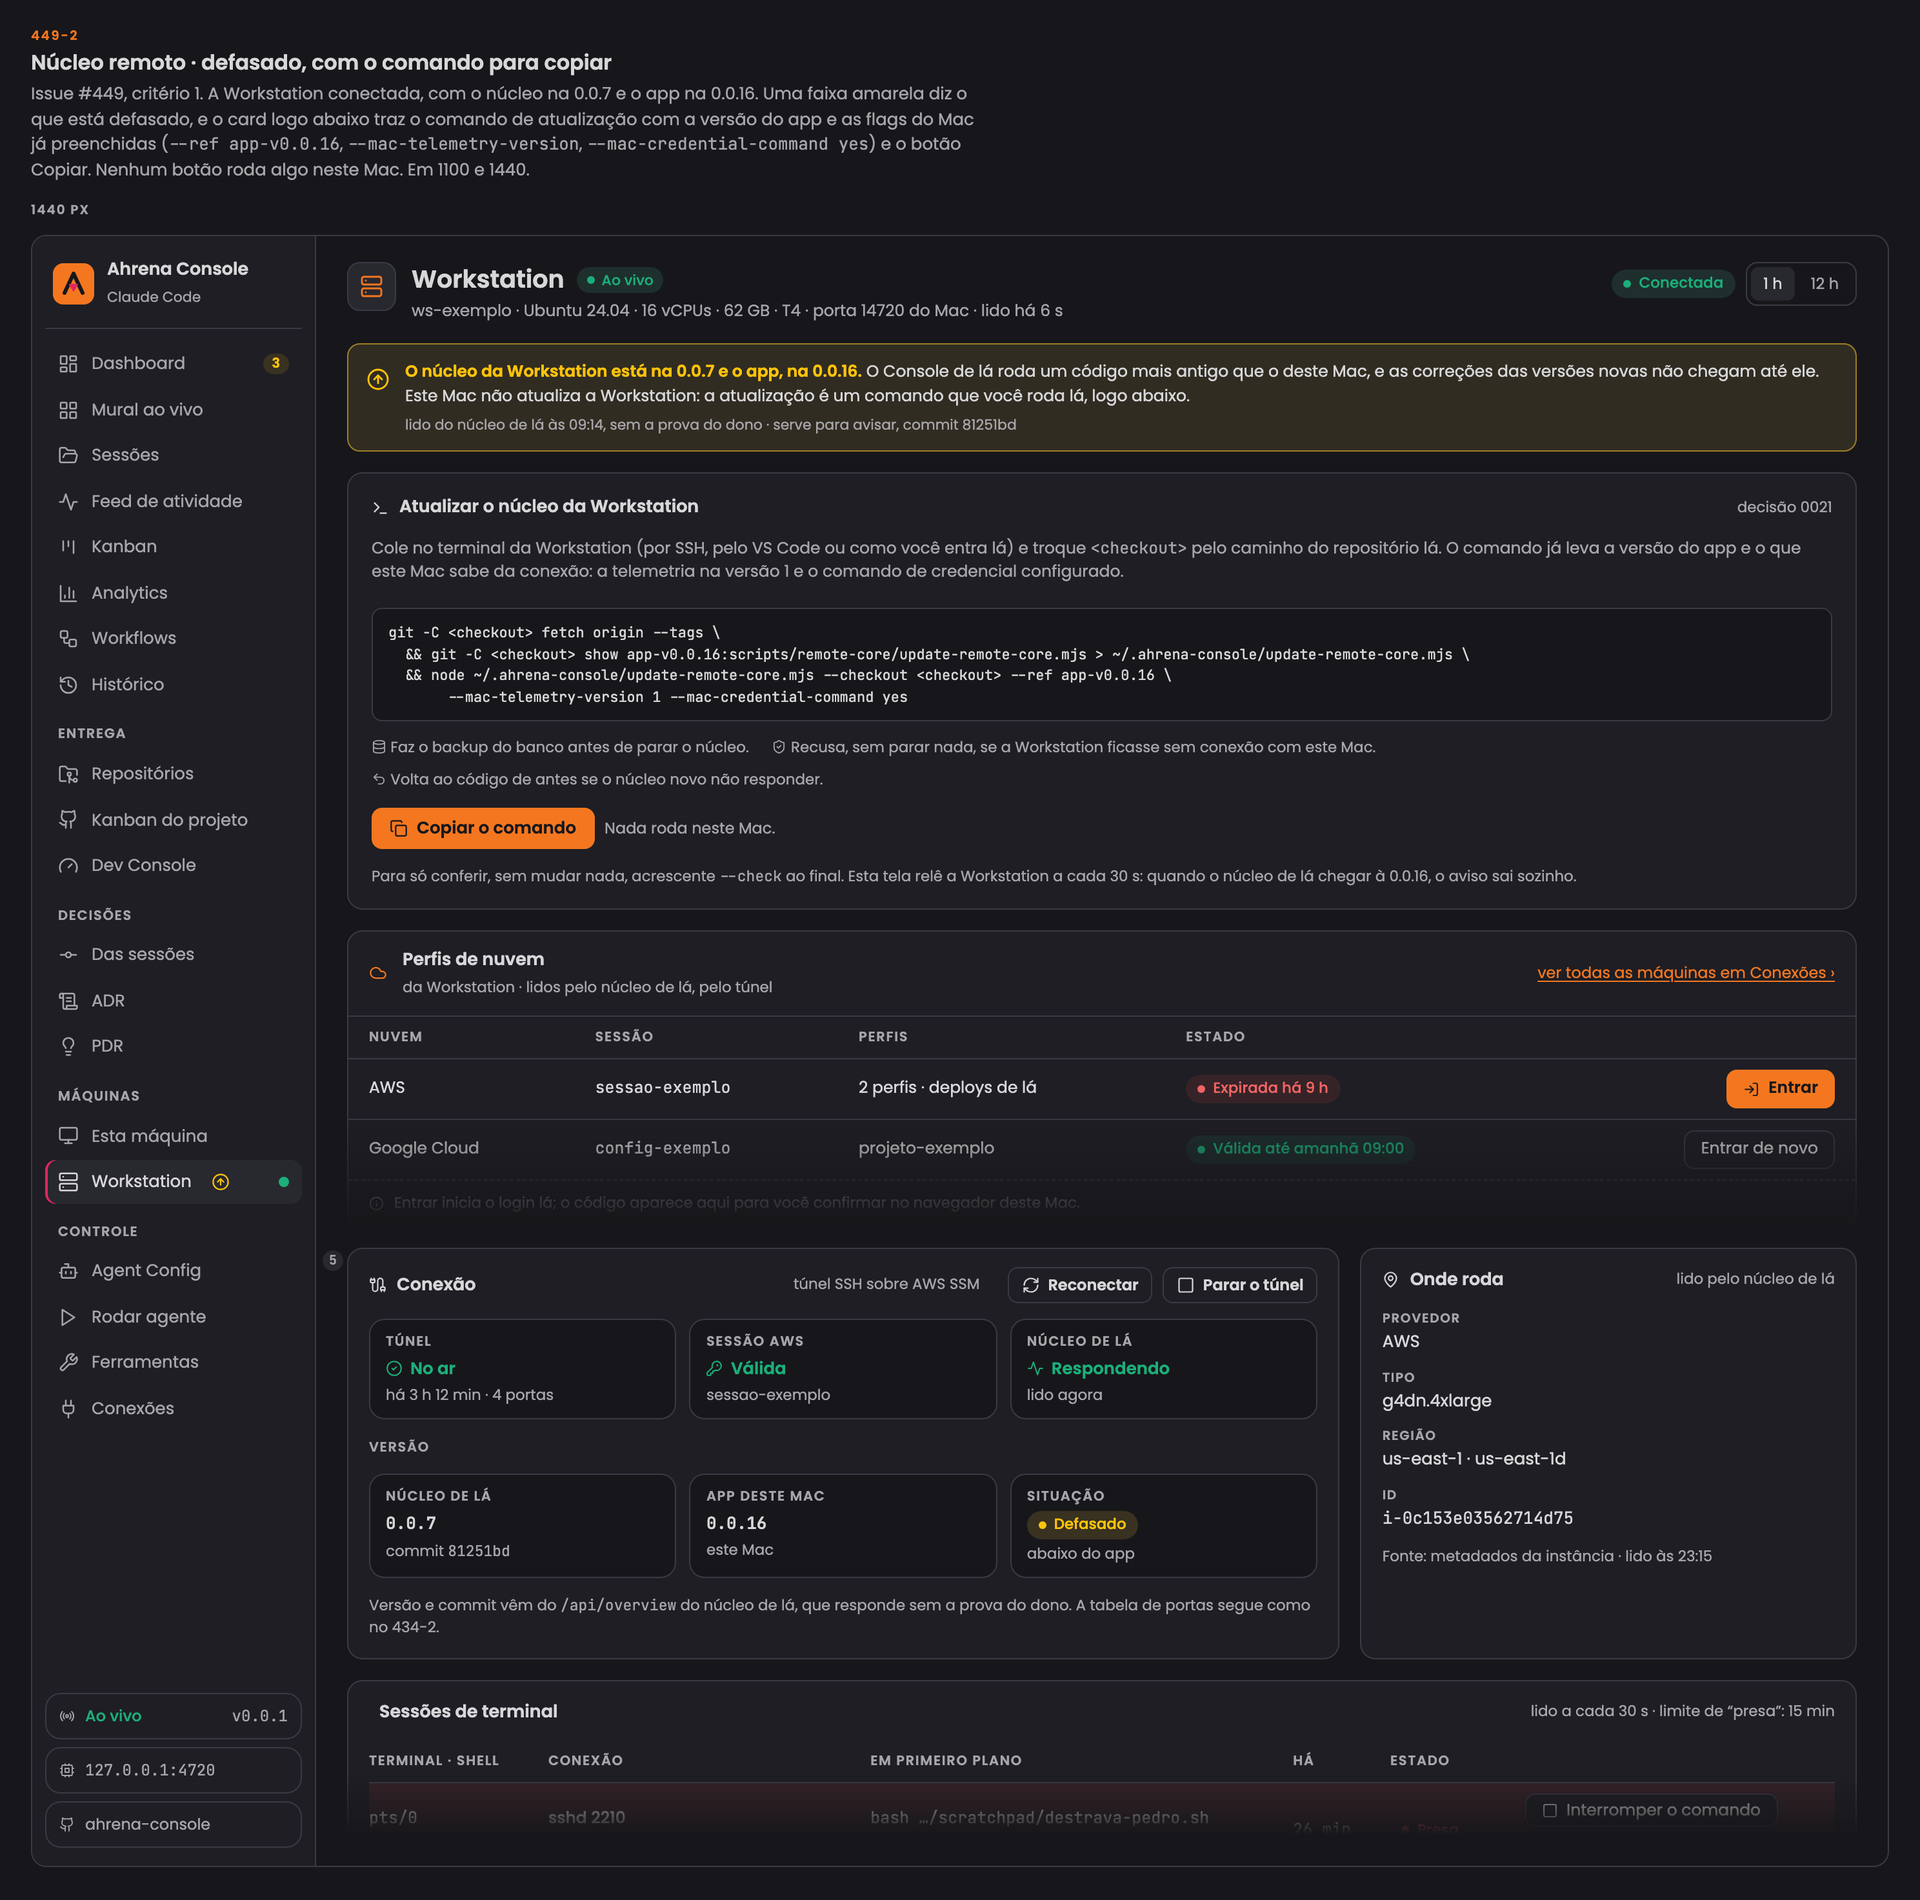
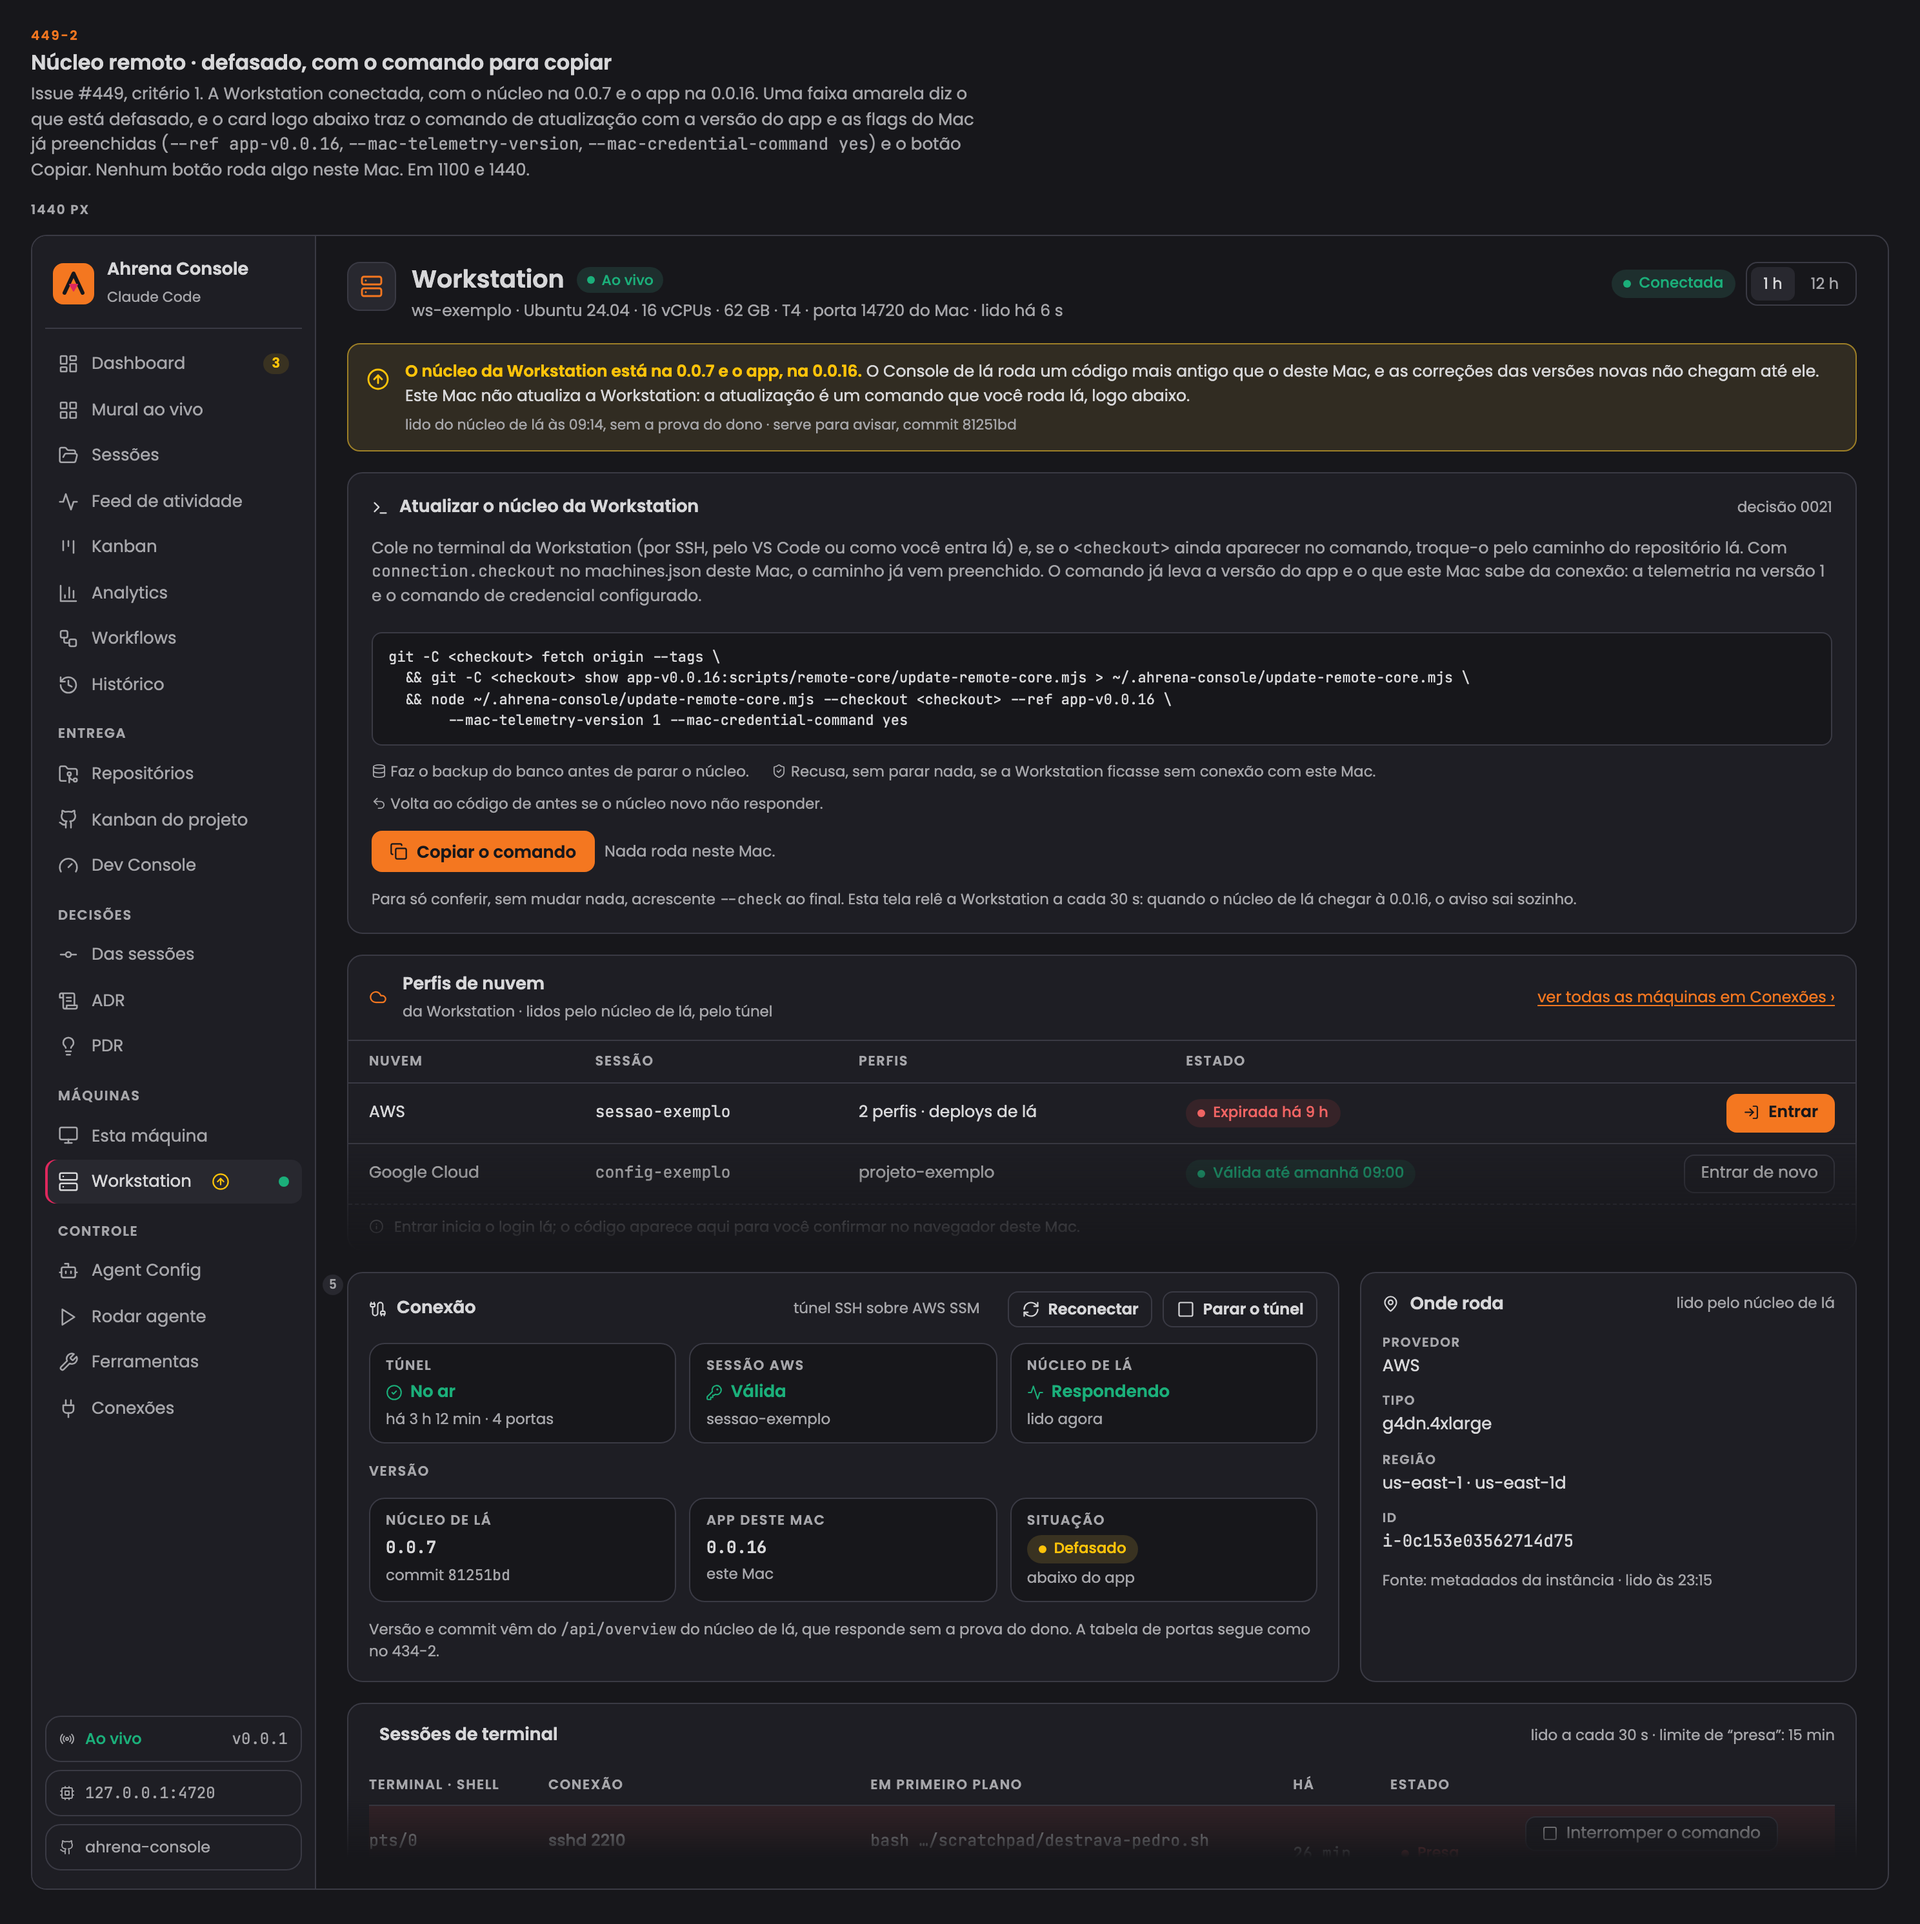
docs(wireframes): remote core version and update states (issue 449)
Wireframes 449-1 to 449-5 for decision 0021: the core version on the Workstation
card, the outdated warning with the copyable update command, the variant without
the credential command, outdated in owner-auth-required, and the sidebar marker.

diff --git a/docs/wireframes/index.html b/docs/wireframes/index.html
@@ -5563,14 +5563,14 @@ const cvCommand = (cred, ref = `app-v${CV_APP}`) => `git -C &lt;checkout&gt; fet
        --mac-telemetry-version 1 --mac-credential-command ${cred}`
 const cvCopy = (primary, copied) => `<div class="cv-copy">${bt(copied ? 'Copiado' : 'Copiar o comando', { v: primary ? 'filled' : 'outline', icon: copied ? 'check' : 'copy', state: copied ? 'done' : '' })}<span class="c-muted" style="font-size:12px">${copied ? 'Cole no terminal da Workstation.' : 'Nada roda neste Mac.'}</span></div>`
 const cvUpdateCard = (cred, o = {}) => `<div class="cartao tm-rc-setup"><h5>${ic('terminal')}${o.step ? '2 · ' : ''}Atualizar o núcleo da Workstation<span class="c-muted" style="margin-left:auto;font-weight:400;font-size:11.5px">decisão 0021</span></h5>
-  <span class="c-muted" style="font-size:12.5px">Cole no terminal da Workstation (por SSH, pelo VS Code ou como você entra lá) e troque <code>&lt;checkout&gt;</code> pelo caminho do repositório lá. O comando já leva a versão do app e o que este Mac sabe da conexão: a telemetria na versão 1 e ${cred === 'yes' ? 'o comando de credencial configurado' : '<b class="c-waiting">sem comando de credencial</b>'}.</span>
+  <span class="c-muted" style="font-size:12.5px">Cole no terminal da Workstation (por SSH, pelo VS Code ou como você entra lá) e, se o <code>&lt;checkout&gt;</code> ainda aparecer no comando, troque-o pelo caminho do repositório lá. Com <code>connection.checkout</code> no machines.json deste Mac, o caminho já vem preenchido. O comando já leva a versão do app e o que este Mac sabe da conexão: a telemetria na versão 1 e ${cred === 'yes' ? 'o comando de credencial configurado' : '<b class="c-waiting">sem comando de credencial</b>'}.</span>
   <div class="tm-config">${cvCommand(cred)}</div>
   <div class="tm-legend"><span>${ic('database')} Faz o backup do banco antes de parar o núcleo.</span><span>${ic('shield-check')} ${cred === 'yes' ? 'Recusa, sem parar nada, se a Workstation ficasse sem conexão com este Mac.' : 'Com <span class="mono">no</span>, recusa com o código 21 e não para nada.'}</span><span>${ic('undo-2')} Volta ao código de antes se o núcleo novo não responder.</span></div>
   ${cvCopy(cred === 'yes' || !o.step, false)}
   <span class="c-muted" style="font-size:11.5px">${cred === 'yes' ? 'Para só conferir, sem mudar nada, acrescente <span class="mono">--check</span> ao final. ' : ''}Esta tela relê a Workstation a cada 30 s: quando o núcleo de lá chegar à ${CV_APP}, o aviso sai sozinho.</span></div>`
 const cvCredentialCard = () => `<div class="cartao tm-rc-setup"><h5>${ic('key-round')}1 · Comando de credencial<span class="c-muted" style="margin-left:auto;font-weight:400;font-size:11.5px">decisão 0020</span></h5>
   <span class="c-muted" style="font-size:12.5px">Grave em <code>connection.credential</code>, troque os dois caminhos pelos da Workstation e salve. É o mesmo exemplo do 388-1.</span>
-  <div class="tm-config">${OA_CREDENTIAL_EXAMPLE}</div>
+  <div class="tm-config">${OA_CREDENTIAL_EXAMPLE.replace('na Workstation, dentro de', 'no Mac, dentro de')}</div>
   <div class="tm-rc-actions" style="justify-content:flex-start">${bt('Copiar o exemplo', { icon: 'copy' })}</div></div>`
 const cvOutdatedBand = kind => oaBand('waiting', 'arrow-up-circle', `O núcleo da Workstation está na ${CV[kind].core} e o app, na ${CV_APP}.`,
   `O Console de lá roda um código mais antigo que o deste Mac, e as correções das versões novas não chegam até ele. Este Mac não atualiza a Workstation: a atualização é um comando que você roda lá, logo abaixo.`,
